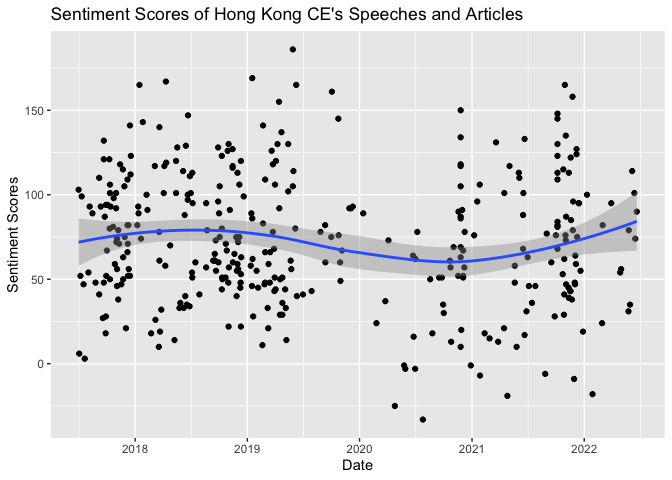
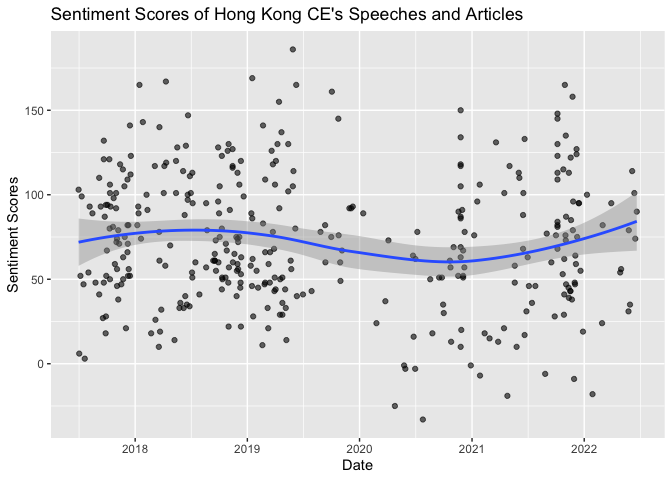
update

diff --git a/Sentiment_Analysis.md b/Sentiment_Analysis.md
@@ -242,7 +242,7 @@ d_tokenized_s_afinn_agg = d_fulltext %>%
 # Change of sentiment over time?
 d_tokenized_s_afinn_agg %>%
   ggplot(aes(x = date_of_speech, y = sentiment_score)) +
-  geom_point() +
+  geom_point(alpha = 0.6) +
   geom_smooth() +
   labs(
     title = "Sentiment Scores of Hong Kong CE's Speeches and Articles"
@@ -287,7 +287,7 @@ d_tokenized_s_afinn_agg = d_fulltext %>%
 # Change of sentiment over time?
 d_tokenized_s_afinn_agg %>%
   ggplot(aes(x = date_of_speech, y = sentiment_score)) +
-  geom_point() +
+  geom_point(alpha = 0.6) +
   geom_smooth() +
   labs(
     title = "Sentiment Scores of Hong Kong CE's Speeches and Articles"
@@ -298,3 +298,102 @@ d_tokenized_s_afinn_agg %>%
     ## `geom_smooth()` using method = 'loess' and formula 'y ~ x'
 
 ![](Sentiment_Analysis_files/figure-gfm/unnamed-chunk-12-1.png)<!-- -->
+
+## Calculate Some Fine-Grained Sentiment Scores
+
+``` r
+dict_nrc
+```
+
+    ## # A tibble: 13,872 × 2
+    ##    word        sentiment
+    ##    <chr>       <chr>    
+    ##  1 abacus      trust    
+    ##  2 abandon     fear     
+    ##  3 abandon     negative 
+    ##  4 abandon     sadness  
+    ##  5 abandoned   anger    
+    ##  6 abandoned   fear     
+    ##  7 abandoned   negative 
+    ##  8 abandoned   sadness  
+    ##  9 abandonment anger    
+    ## 10 abandonment fear     
+    ## # … with 13,862 more rows
+
+``` r
+d_tokenized_s_nrc = d_tokenized_s %>%
+  inner_join(dict_nrc, by = "word", multiple = "all")
+
+d_tokenized_s_nrc_agg = d_tokenized_s_nrc %>%
+  group_by(uid, date_of_speech, sentiment) %>%
+  count() %>%
+  pivot_wider(names_from = "sentiment", values_from = "n", 
+              names_prefix = "sentiment_score_")
+
+names(d_tokenized_s_nrc_agg)
+```
+
+    ##  [1] "uid"                          "date_of_speech"              
+    ##  [3] "sentiment_score_anger"        "sentiment_score_anticipation"
+    ##  [5] "sentiment_score_disgust"      "sentiment_score_fear"        
+    ##  [7] "sentiment_score_joy"          "sentiment_score_negative"    
+    ##  [9] "sentiment_score_positive"     "sentiment_score_sadness"     
+    ## [11] "sentiment_score_surprise"     "sentiment_score_trust"
+
+``` r
+# Change of sentiment over time?
+d_tokenized_s_nrc_agg %>%
+  ggplot(aes(x = date_of_speech, y = sentiment_score_sadness)) +
+  geom_point(alpha = 0.6) +
+  geom_smooth() +
+  labs(
+    title = "Sentiment Scores of Hong Kong CE's Speeches and Articles"
+  ) +
+  xlab("Date") + ylab("Sentiment Scores (Sadness)")
+```
+
+    ## `geom_smooth()` using method = 'loess' and formula 'y ~ x'
+
+    ## Warning: Removed 14 rows containing non-finite values (stat_smooth).
+
+    ## Warning: Removed 14 rows containing missing values (geom_point).
+
+![](Sentiment_Analysis_files/figure-gfm/unnamed-chunk-13-1.png)<!-- -->
+
+``` r
+# Normalize the sentiment scores
+d_tokenized_s_nrc = d_tokenized_s %>%
+  group_by(uid) %>%
+  mutate(doc_length = n()) %>%
+  ungroup() %>%
+  inner_join(dict_nrc, by = "word", multiple = "all")
+
+d_tokenized_s_nrc_agg = d_tokenized_s_nrc %>%
+  group_by(uid, date_of_speech, sentiment) %>%
+  summarise(n = n() / mean(doc_length)) %>%
+  pivot_wider(names_from = "sentiment", values_from = "n", 
+              names_prefix = "sentiment_score_")
+```
+
+    ## `summarise()` has grouped output by 'uid', 'date_of_speech'. You can override
+    ## using the `.groups` argument.
+
+``` r
+# Change of sentiment over time?
+d_tokenized_s_nrc_agg %>%
+  ggplot(aes(x = date_of_speech, y = sentiment_score_sadness)) +
+  geom_point(alpha = 0.6) +
+  geom_smooth() +
+  labs(
+    title = "Sentiment Scores of Hong Kong CE's Speeches and Articles"
+  ) +
+  xlab("Date") + ylab("Sentiment Scores (Sadness)")
+```
+
+    ## `geom_smooth()` using method = 'loess' and formula 'y ~ x'
+
+    ## Warning: Removed 14 rows containing non-finite values (stat_smooth).
+
+    ## Warning: Removed 14 rows containing missing values (geom_point).
+
+![](Sentiment_Analysis_files/figure-gfm/unnamed-chunk-14-1.png)<!-- -->
